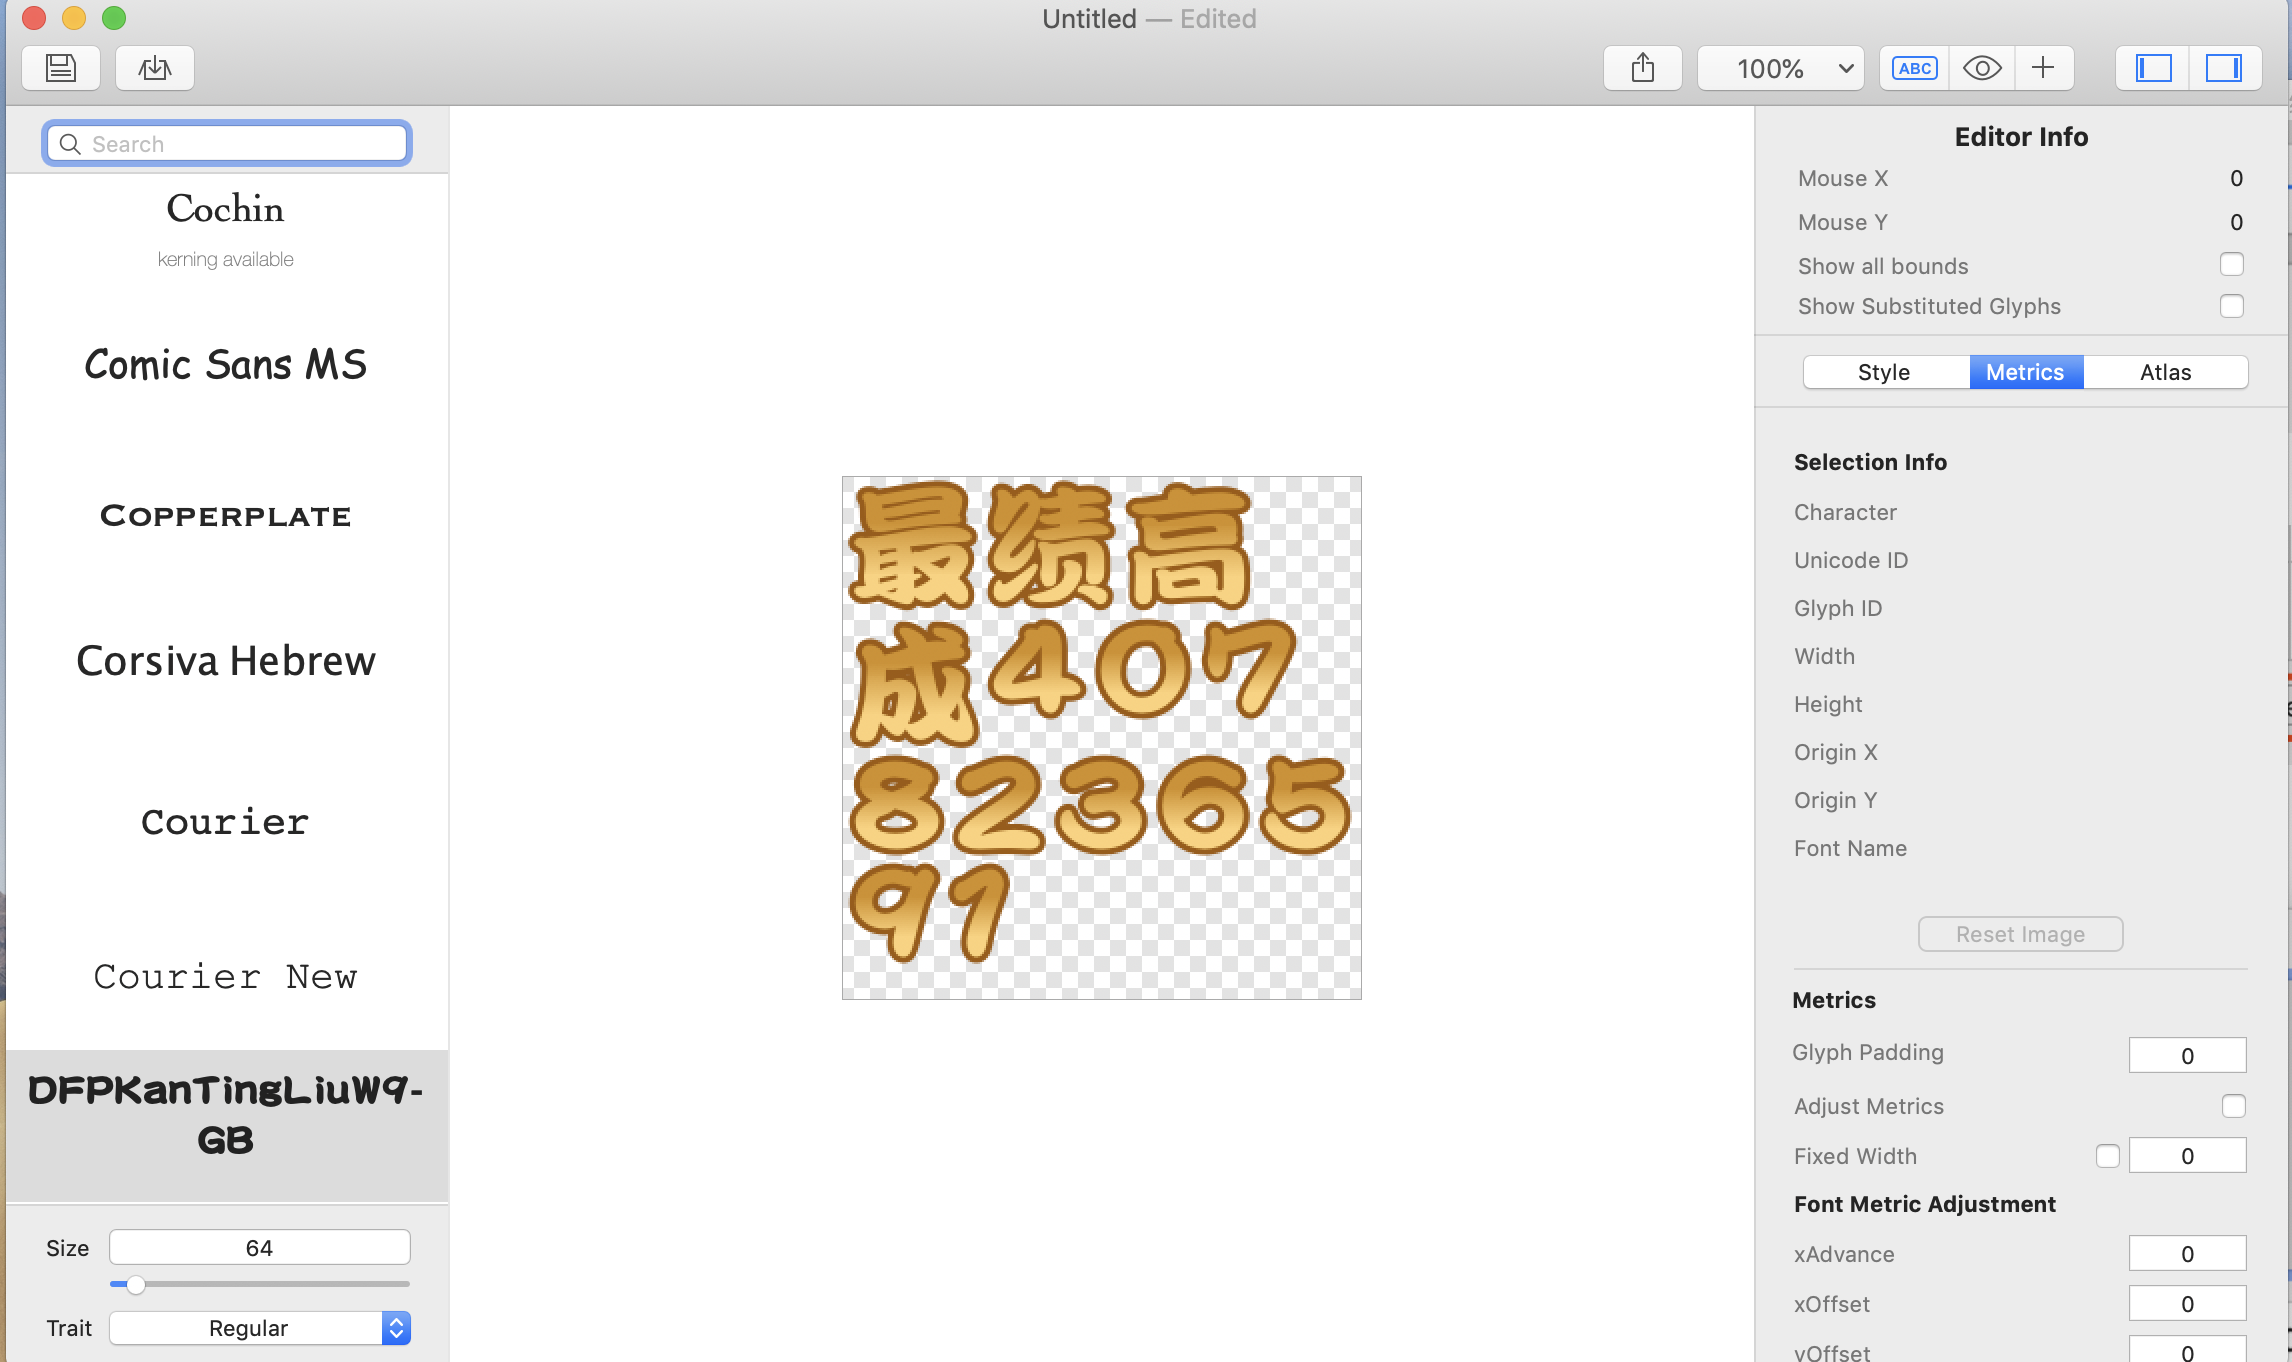
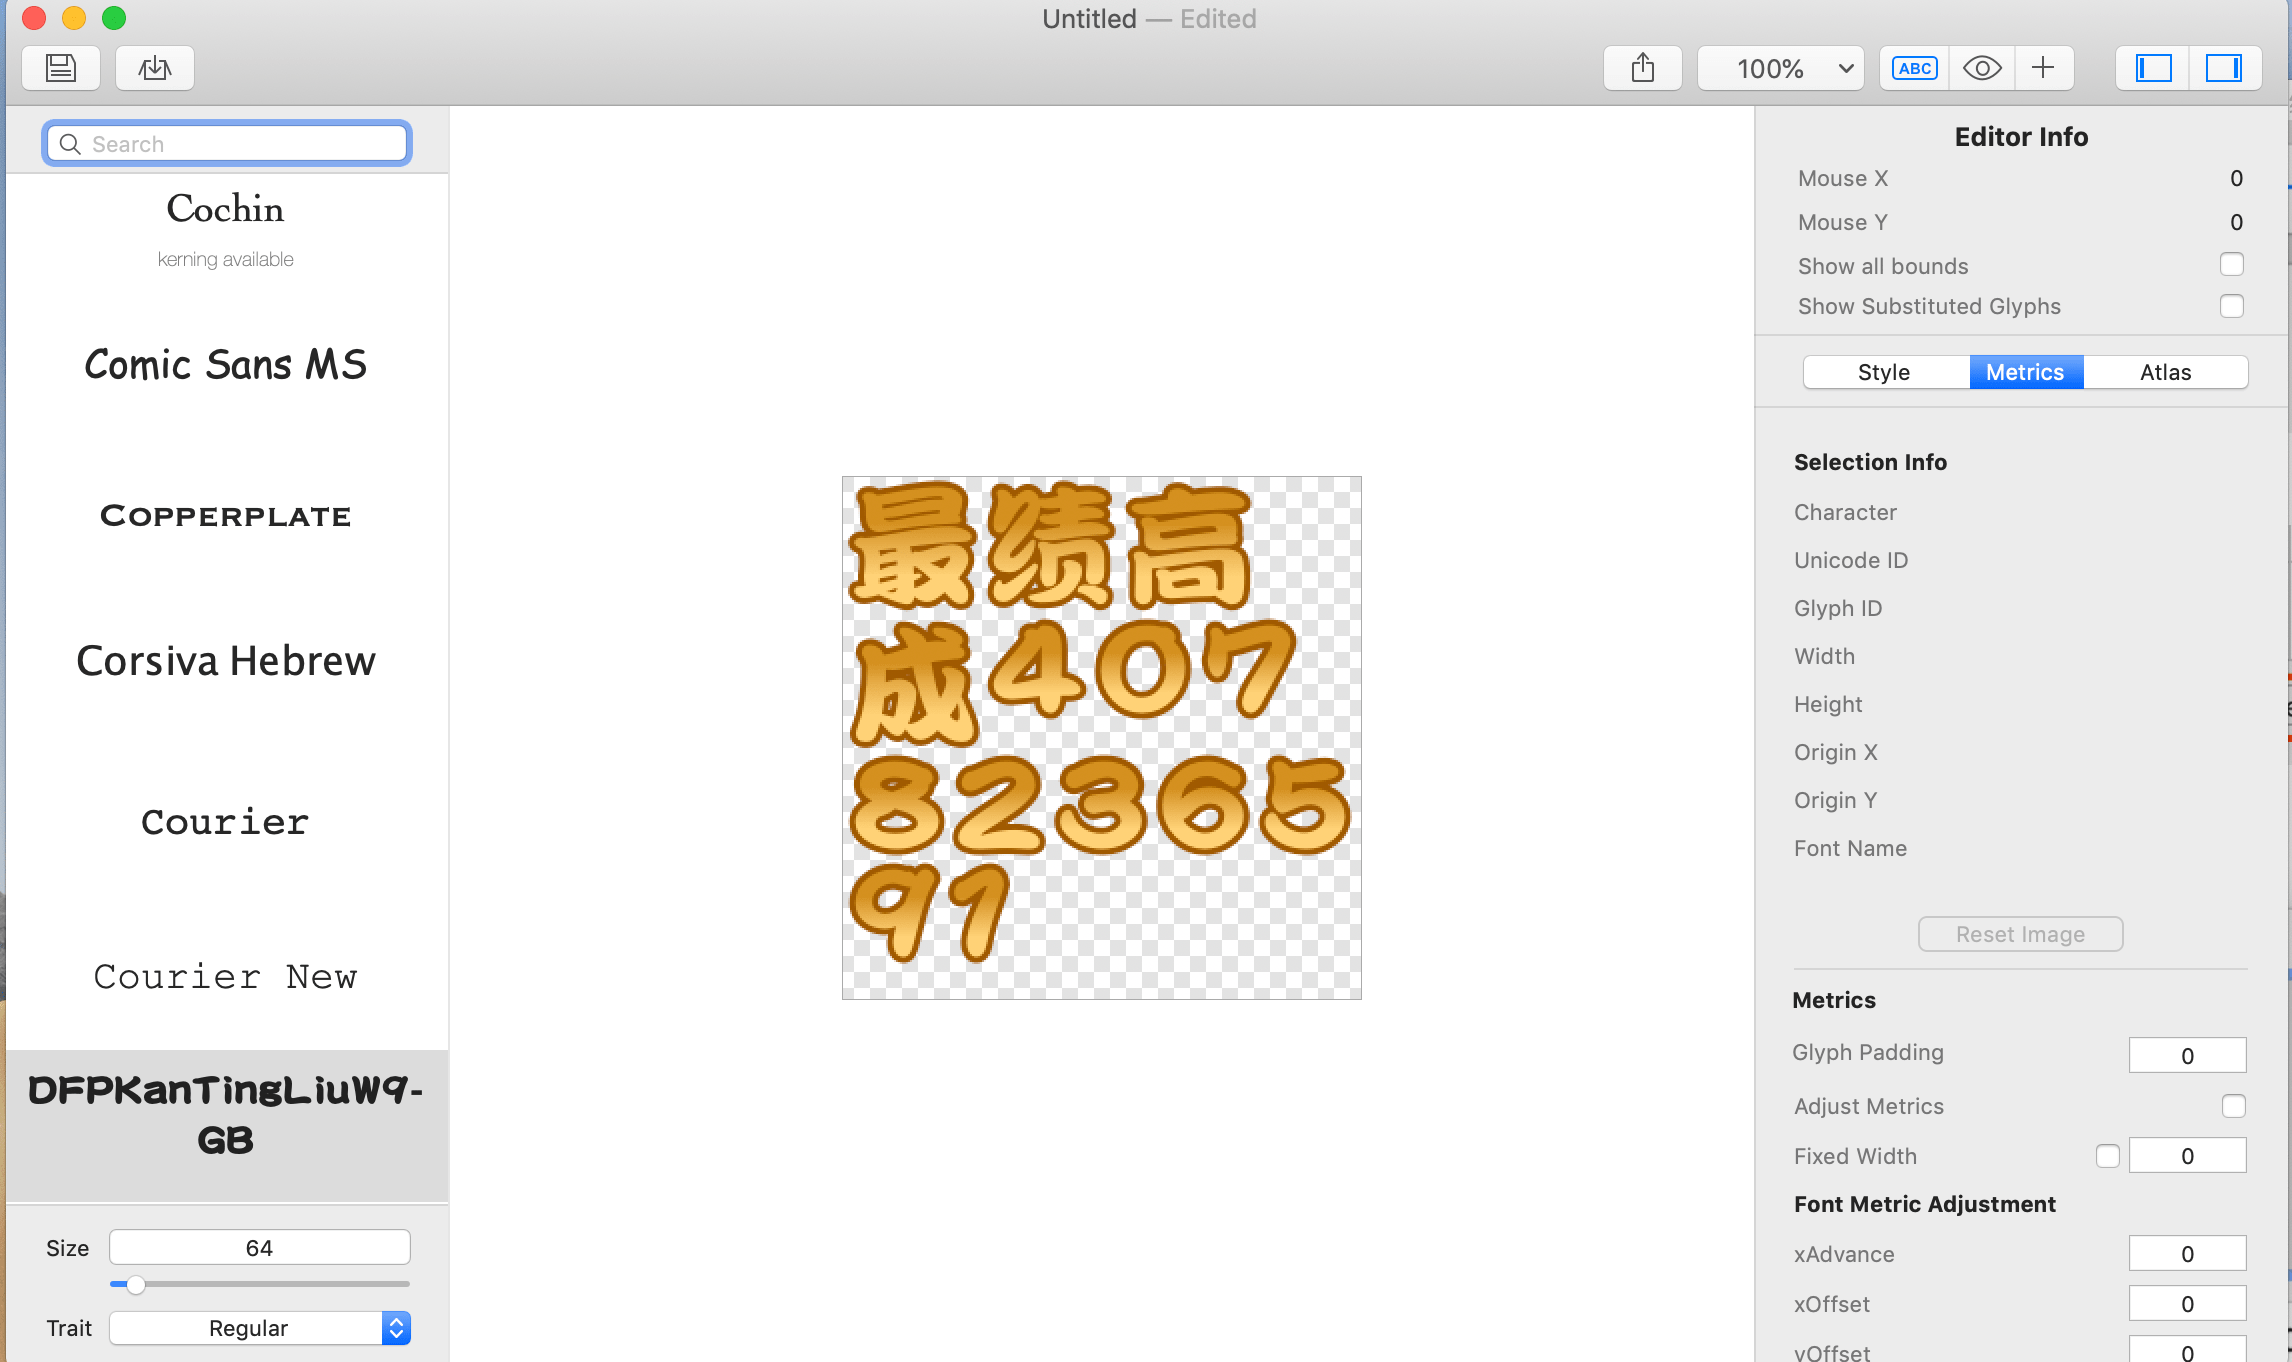
补充

diff --git a/source/_posts/tool/Glyph-Designer制作位图字体.md b/source/_posts/tool/Glyph-Designer制作位图字体.md
@@ -68,6 +68,20 @@ date: 2019-03-18 13:01:09
 
 **以上已经完成位图的制作**
 
+### 拓展 使用自定义图片制作位图字
+
+下图这样的字体首先需要美术同学的支持，将每个字做成一张单独的图片。
+
+一开始不知道怎么去替换图中的文字，官方文档中介绍的也不是很清晰。
+
+![img](Glyph-Designer%E5%88%B6%E4%BD%9C%E4%BD%8D%E5%9B%BE%E5%AD%97%E4%BD%93/gd2.png)
+
+本以为通过替换Style中的Image可以实现，试了多次也没成功。直到尝试了一下如下的操作：将切好的数字图片拖拽到要替换的数字上，ojbk，成功了。将数字图片拖动到哪个字上就替换哪个字。
+
+![img](Glyph-Designer%E5%88%B6%E4%BD%9C%E4%BD%8D%E5%9B%BE%E5%AD%97%E4%BD%93/gd3.gif)
+
+参考：[Glyph Designer(Custom Images)使用自定义图片制作位图字体](https://www.ifeelgame.net/tools/glyph-designercustom-images%E4%BD%BF%E7%94%A8%E8%87%AA%E5%AE%9A%E4%B9%89%E5%9B%BE%E7%89%87%E5%88%B6%E4%BD%9C%E4%BD%8D%E5%9B%BE%E5%AD%97%E4%BD%93/)
+
 ### 可能用到的工具 
 
 - [文本去重工具](https://www.qqxiuzi.cn/zh/quchong/)
